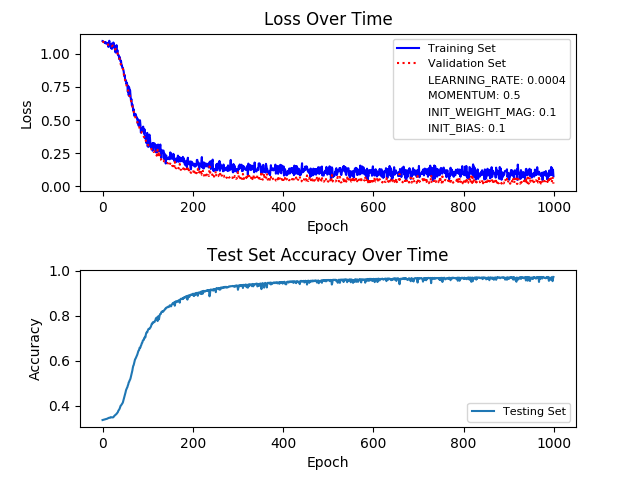
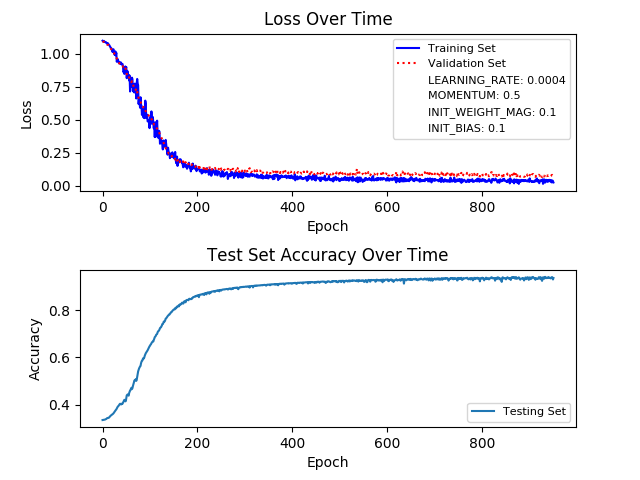
Add early training stop mechanism

diff --git a/training.py b/training.py
@@ -16,6 +16,16 @@ VALIDATING_SIZE_PER_CLASS = 10
 # NOTE: must be a factor of TRAINING_SIZE_PER_CLASS 
 BATCH_SIZE_PER_CLASS      = 15
 
+# Every N iteration will check if need to stop training early
+CHECKPOINT_ITERATION = 50
+# Target loss threshold to stop training once met
+LOSS_THRESHOLD       = 0.025
+# Allow the loss to fluctuate by this amount
+FLUCTUATION_RANGE    = 0.15
+# Stop training when training loss and validation loss differ by this amount
+GRACE_RANGE          = 0.2
+
+
 class TrainANN(object):
     def __init__(self, lr, momentum, init_w_mag, init_bias, epochs):
         self.training_size_per_class = TRAINING_SIZE_PER_CLASS
@@ -40,10 +50,12 @@ class TrainANN(object):
             self.training_loss_over_epoch.append(self.training_loss)
             # Validate NN on validating data
             self.validate()
-            self.testing_loss_over_epoch.append(self.nn.error.value)
+            self.testing_loss_over_epoch.append(self.validation_loss)
             # Record accuracy on test set
             self.test()
             self.accuracy_over_epoch.append(self.test_accuracy)
+            if self.stop_early(i):
+                break
 
     def setup_data(self):
         self.data = Data(CLASSES, NUM_FEATURES)
@@ -75,6 +87,7 @@ class TrainANN(object):
         self.nn.sample.value       = self.data.validation_samples
         self.nn.sample_label.value = self.data.validation_labels
         self.nn.forward()
+        self.validation_loss = self.nn.error.value
 
     def test(self):
         self.nn.sample.value = self.data.testing_samples
@@ -126,3 +139,21 @@ class TrainANN(object):
     def predict_samples(self, samples):
         prediction = self.nn.run_samples(samples)
         return [self.data.encoding_to_class(v) for v in prediction]
+
+    def stop_early(self, iteration):
+        if iteration % CHECKPOINT_ITERATION == 0 and iteration >= CHECKPOINT_ITERATION:
+            # Stop if overfitting
+            if self.validation_loss - self.training_loss >= GRACE_RANGE:
+                print("\nTRAINING STOPPED: Starts to Overfit")
+                return True
+            # Stop if reached loss threshold
+            elif self.training_loss <= LOSS_THRESHOLD:
+                print("\nTRAINING STOPPED: Reached Loss Threshold")
+                return True
+            # Compare current loss with prev loss. Stop if loss starts to grow
+            elif self.training_loss - self.training_loss_over_epoch[iteration - CHECKPOINT_ITERATION] >= FLUCTUATION_RANGE:
+                print("\nTRAINING STOPPED: Growing Loss")
+                return True
+            else:
+                return False
+        return False

diff --git a/README.md b/README.md
@@ -117,6 +117,22 @@ For example:
 
     accuracy = sum of correctness over test set / number of sample in test set
 
+Training can stop early (i.e. did not iterate for the number of epochs) for one of the following conditions:
+
+    1. Reaching target loss threshold
+    2. Model starts to overfit
+    3. Loss is growing instead of reducing
+
+You can modify these stop conditions with the following constants in `training.py`
+
+    # Every N iteration will check if need to stop training early
+    CHECKPOINT_ITERATION = 50
+    # Target loss threshold to stop training once met
+    LOSS_THRESHOLD       = 0.025
+    # Allow the loss to fluctuate by this amount
+    FLUCTUATION_RANGE    = 0.15
+    # Stop training when training loss and validation loss differ by this amount
+    GRACE_RANGE          = 0.2
 
 ## Reflection:
 
